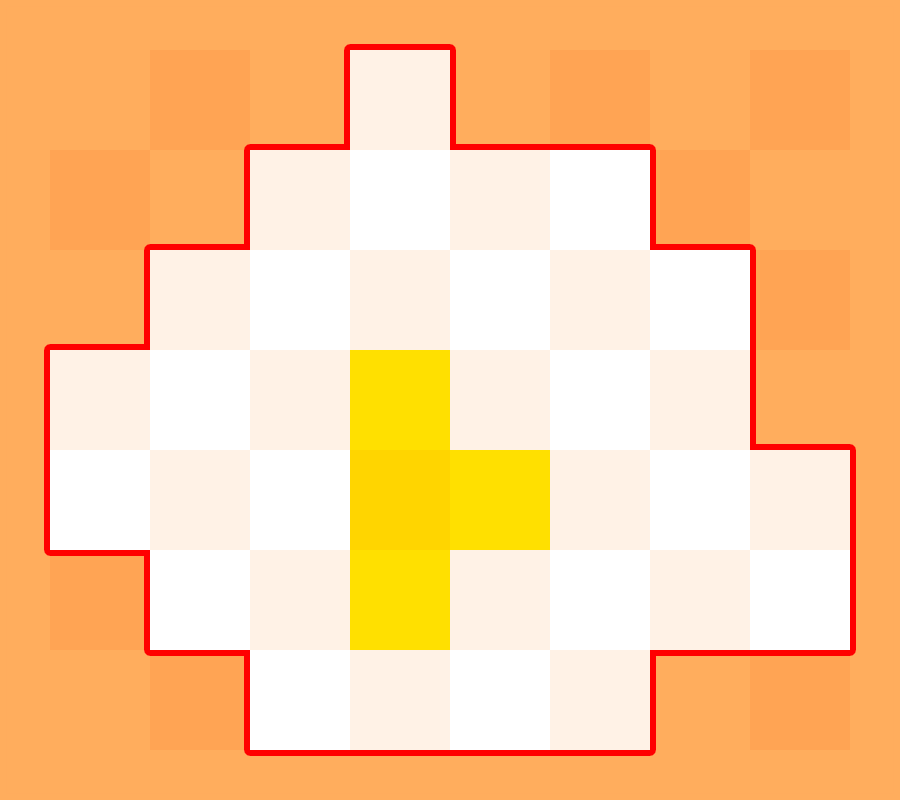
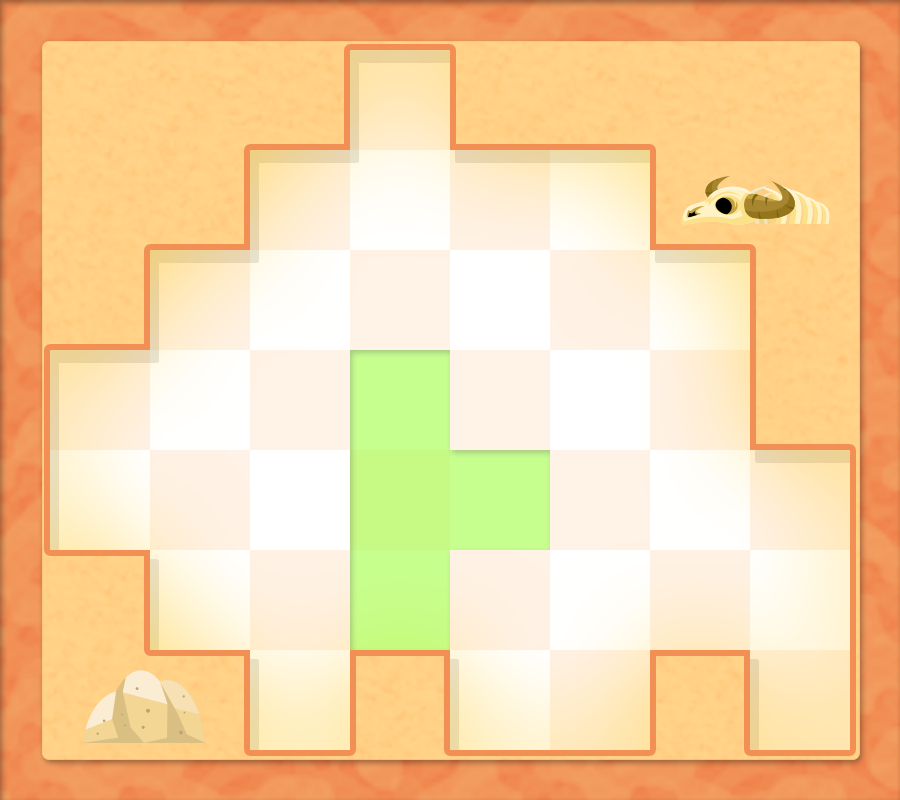
배경 이미지 보완 및 클리어 튀어나올때 때 띠용~
띠용~~

diff --git a/Cactus Family/class_Stage.py b/Cactus Family/class_Stage.py
@@ -106,7 +106,7 @@ class Stage:
 
     def print_score(self):
         for i in range(MAX_LEVEL - 1):
-            self.text.draw(MAP_WIDTH / 2, MAP_HEIGHT / 3 - (50 * i), str(i + 1) + '스테이지 기록 ' + str(self.max_map_score[i + 1]), color=(255, 255, 255))
+            self.text.draw(MAP_WIDTH / 2 - 200, MAP_HEIGHT / 3 - (50 * i), str(i + 1) + '움직인 횟수 : ' + str(self.max_map_score[i + 1]), color=(255, 255, 255))
 
     def set_stage_score(self):
         if now_stage != MAX_LEVEL and self.max_map_score[now_stage] > self.player.move_count:
@@ -124,7 +124,7 @@ class Stage:
         self.block_count = len(self.block_pos)
 
     def level_1(self):
-        self.map_image = 'image_file\\Map_easy.png'
+        self.map_image = 'image_file\\Map_1.png'
         self.cac_pos = [(6, 3), (5, 6), (3, 6)]
         self.clear_pos = [(3, 3), (3, 4), (2, 4)]
         self.stone_pos = [4, 5]
@@ -135,7 +135,7 @@ class Stage:
         self.star_standard = [20, 40, 60]
 
     def level_2(self):
-        self.map_image = 'image_file\\Map_normal.png'
+        self.map_image = 'image_file\\Map_2.png'
         self.cac_pos = [(2, 2), (6, 3), (2, 6), (2, 7)]
         self.clear_pos = [(4, 4), (3, 4), (3, 5), (2, 4)]
         self.stone_pos = [4, 5]
@@ -147,7 +147,7 @@ class Stage:
         self.star_standard = [40, 70, 100]
 
     def level_3(self):
-        self.map_image = 'image_file\\Map_hard.png'
+        self.map_image = 'image_file\\Map_3.png'
         self.cac_pos = [(6, 4), (5, 8), (4, 2), (4, 4), (1, 3), (1, 5)]
         self.clear_pos = [(5, 4), (5, 5), (4, 3), (4, 4), (3, 4), (2, 4)]
         self.stone_pos = [4, 5]
@@ -202,8 +202,8 @@ class Stage:
     def draw_stage(self):
         global now_stage
         self.map.draw(MAP_WIDTH // 2, MAP_HEIGHT // 2)
-        self.text.draw(10, MAP_HEIGHT - 25, '스테이지 ' + str(now_stage), color=(255, 255, 255))
+        self.text.draw(45, MAP_HEIGHT - 25, '스테이지 - ' + str(now_stage), color=(255, 255, 255))
         if self.max_map_score[now_stage] != NO_SCORE:
-            self.text.draw(10, MAP_HEIGHT - 50, '최고점수 : ' + str(self.max_map_score[now_stage]), color=(255, 255, 255))
+            self.text.draw(45, 20, '최고점수 : ' + str(self.max_map_score[now_stage]), color=(255, 255, 255))
 
 

diff --git a/Cactus Family/stage_clear_state.py b/Cactus Family/stage_clear_state.py
@@ -11,17 +11,23 @@ star = [None, None, None, None]
 score = 1
 clear_time = 0.0
 score_text = []
-
+size_x = 0
+size_y = 0
+pop_speed = 5
 
 def enter():
-    global image, star, score_text, score
-    score_text = load_font('font\\CookieRun Bold.ttf')
+    global image, star, score_text, score, size_x, size_y, pop_speed, clear_time
+    score_text = load_font('font\\CookieRun Bold.ttf', 20)
     image = load_image('image_file\\Clear.png')
     star[0] = load_image('image_file\\star_0.png')
     star[1] = load_image('image_file\\star_1.png')
     star[2] = load_image('image_file\\star_2.png')
     star[3] = load_image('image_file\\star_3.png')
     score = Cactus_Family.game_stage.star_rank
+    size_x = 0
+    size_y = 0
+    pop_speed = 5
+    clear_time = 0.0
 
 
 def exit():
@@ -31,20 +37,27 @@ def exit():
 
 
 def update():
-    global clear_time
+    global clear_time, size_x, size_y, pop_speed
+    if size_x < 450:
+        size_x += 450 / 5 / pop_speed
+    if size_y < 356:
+        size_y += 356 / 5 / pop_speed
     if clear_time > 50.0:
         clear_time = 0
         resume()
     delay(0.01)
     clear_time += 0.05
+    if pop_speed != 1:
+        pop_speed -= 1
 
 
 def draw():
     clear_canvas()
     Cactus_Family.draw()
-    image.draw(450, 400)
-    star[score].draw(450, 400)
-    score_text.draw(MAP_WIDTH / 2 - 95, MAP_HEIGHT / 2 - 10, '최종 움직인 횟수 : ' + str(Cactus_Family.player.move_count), color=(255, 255, 255))
+    image.draw(450, 400, size_x, size_y)
+    star[score].draw(450, 400, size_x, size_y)
+    if clear_time > 0.3:
+        score_text.draw(MAP_WIDTH / 2 - 90, MAP_HEIGHT / 2 - 10, '최종 움직인 횟수 : ' + str(Cactus_Family.player.move_count), color=(255, 255, 255))
     update_canvas()
 
 

diff --git a/Cactus Family/title_state.py b/Cactus Family/title_state.py
@@ -6,7 +6,7 @@ name = "TitleState"
 image = None
 menu_image = None
 arrow = None
-arrow_position = 350
+arrow_position = 250
 menu_num = 1
 
 
@@ -14,9 +14,10 @@ def choose_menu():
     if menu_num == 1:
         game_framework.change_state(Cactus_Family)
     elif menu_num == 2:
-        pass
-    elif menu_num == 3:
         game_framework.quit()
+    elif menu_num == 3:
+        # game_framework.quit()
+        pass
 
 
 def move_arrow(y_pos):
@@ -24,7 +25,7 @@ def move_arrow(y_pos):
     if y_pos == 0 and menu_num > 1:
         arrow_position += 100
         menu_num -= 1
-    elif y_pos == 1 and menu_num < 3:
+    elif y_pos == 1 and menu_num < 2:
         arrow_position -= 100
         menu_num += 1
 
@@ -59,7 +60,7 @@ def handle_events():
 def draw():
     clear_canvas()
     image.draw(450, 400)
-    menu_image.draw(450, 250)
+    menu_image.draw(450, 150)
     arrow.draw(235, arrow_position)
     update_canvas()
 

diff --git a/Cactus Family/class_Stone.py b/Cactus Family/class_Stone.py
@@ -105,7 +105,7 @@ class Stone:
         self.rect = [self.x - 50, self.y + 50, self.x + 50, self.y - 50]
 
     def render(self):
-        self.text.draw(MAP_WIDTH/2 - 50, MAP_HEIGHT - 25, '움직인 횟수 ' + str(self.move_count), color=(255, 255, 255))
+        self.text.draw(MAP_WIDTH/2 - 60, MAP_HEIGHT - 25, '움직인 횟수 ' + str(self.move_count), color=(255, 255, 255))
         self.anime_cnt += 1
         if 46 > self.anime_cnt > 30:
             self.draw_image(15, 100, 100, 0)
